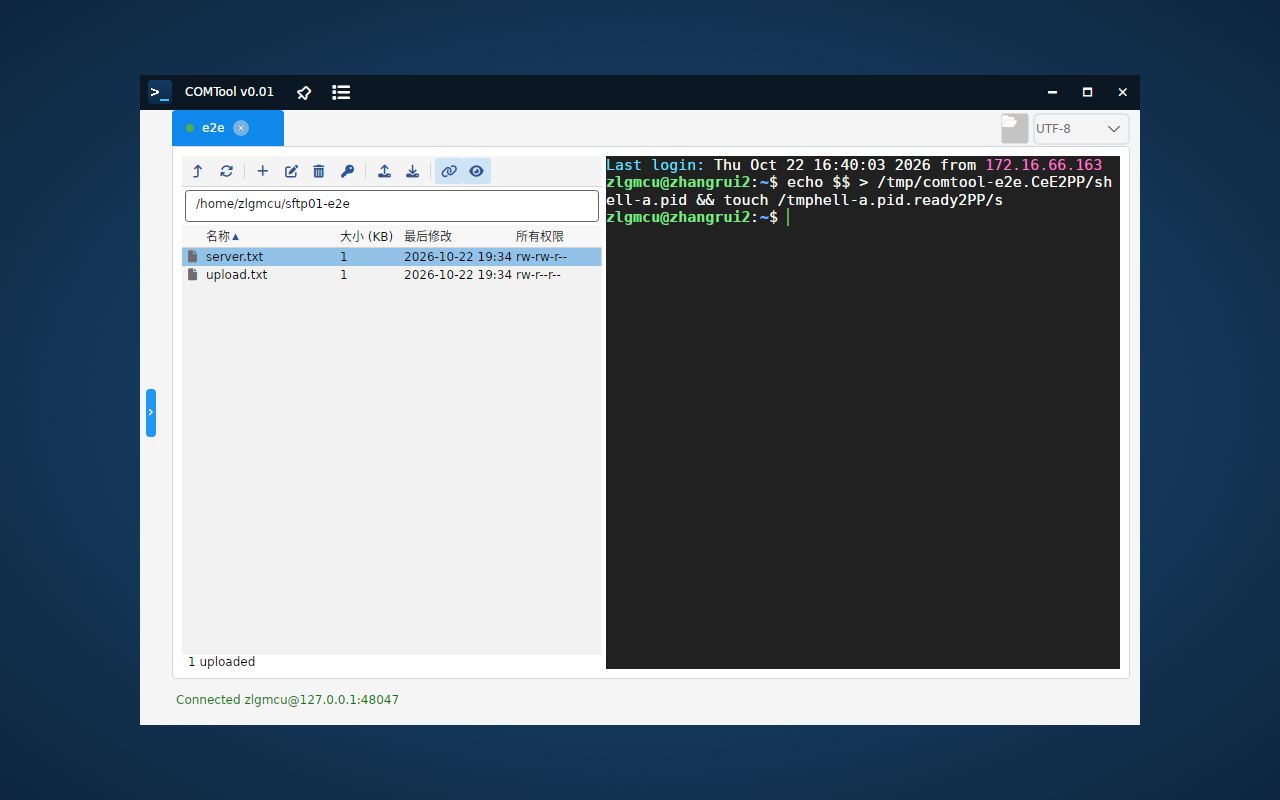
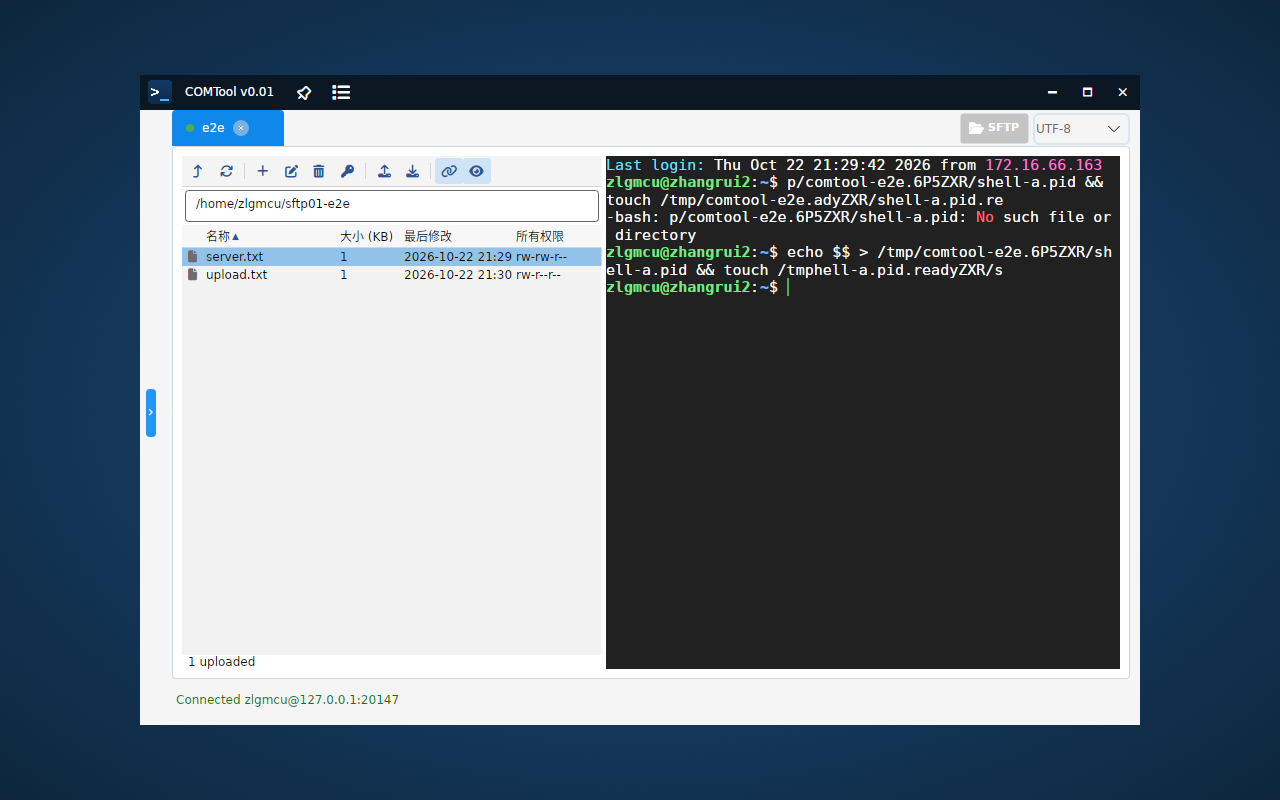
docs: refresh the SFTP fixture to the SFTP-chip build

Changed region(s): [[0.4688, 0.1875, 0.875, 0.375], [0.75, 0.125, 0.8125, 0.1875], [0.375, 0.3125, 0.4062, 0.3438]]

diff --git a/docs/fixtures/phase1/README.md b/docs/fixtures/phase1/README.md
@@ -24,7 +24,7 @@ geometry. These are functional evidence images, not final pixel baselines.
 | `tab-gear-close-spacing.png` | 5x crop of the hovered tab strip: the connection-settings gear and the close button keep 16px of clearance between them, so the two icons no longer look glued together. |
 | `session-connecting-feedback-1000x650.png` | Clicking an unreachable Telnet session immediately shows a blue `Connecting...` state on that sidebar row instead of leaving the click with no feedback; the state clears when the attempt succeeds, fails, or is cancelled. |
 | `sftp-panel-1000x650.png` | Historical (dual-pane layout, replaced 2026-10-22): the SFTP panel inside an SSH tab at 1000x650 with the remote pane above and the local pane below. |
-| `sftp-pane-single.png` | The SFTP panel inside an SSH tab at 1000x650 after the folder button of the tab strip opened it: a single remote list (MobaXterm-style) with the icon-only toolbar (hover shows Chinese tooltips), the Chinese column headers 名称/大小 (KB)/最后修改/所有权限 and folders-first sorting, then the status line. The local side of transfers comes from system pickers, answered in the e2e run from `COMTOOL_E2E_PICK_FILES` / `COMTOOL_E2E_PICK_FOLDER`. Captured by `SFTP01_BrowserTransferE2E`. |
+| `sftp-pane-single.png` | The SFTP panel inside an SSH tab at 1000x650 after the `SFTP` chip of the tab strip opened it: a single remote list (MobaXterm-style) with the icon-only toolbar (hover shows Chinese tooltips), the Chinese column headers 名称/大小 (KB)/最后修改/所有权限 and folders-first sorting, then the status line. The local side of transfers comes from system pickers, answered in the e2e run from `COMTOOL_E2E_PICK_FILES` / `COMTOOL_E2E_PICK_FOLDER`. Captured by `SFTP01_BrowserTransferE2E`. |
 | `sessions-850x500.png` | Config-backed sidebar shows remembered SSH sessions and no tabs after restart. |
 | `two-tabs-850x500.png` | Multiple SSH tabs are open; `win-ssh` is selected, `local-ssh` is not. Sidebar status dots reflect open sessions. |
 | `switch-tab-850x500.png` | Clicking the `local-ssh` tab switches the terminal content back without reconnecting. |
